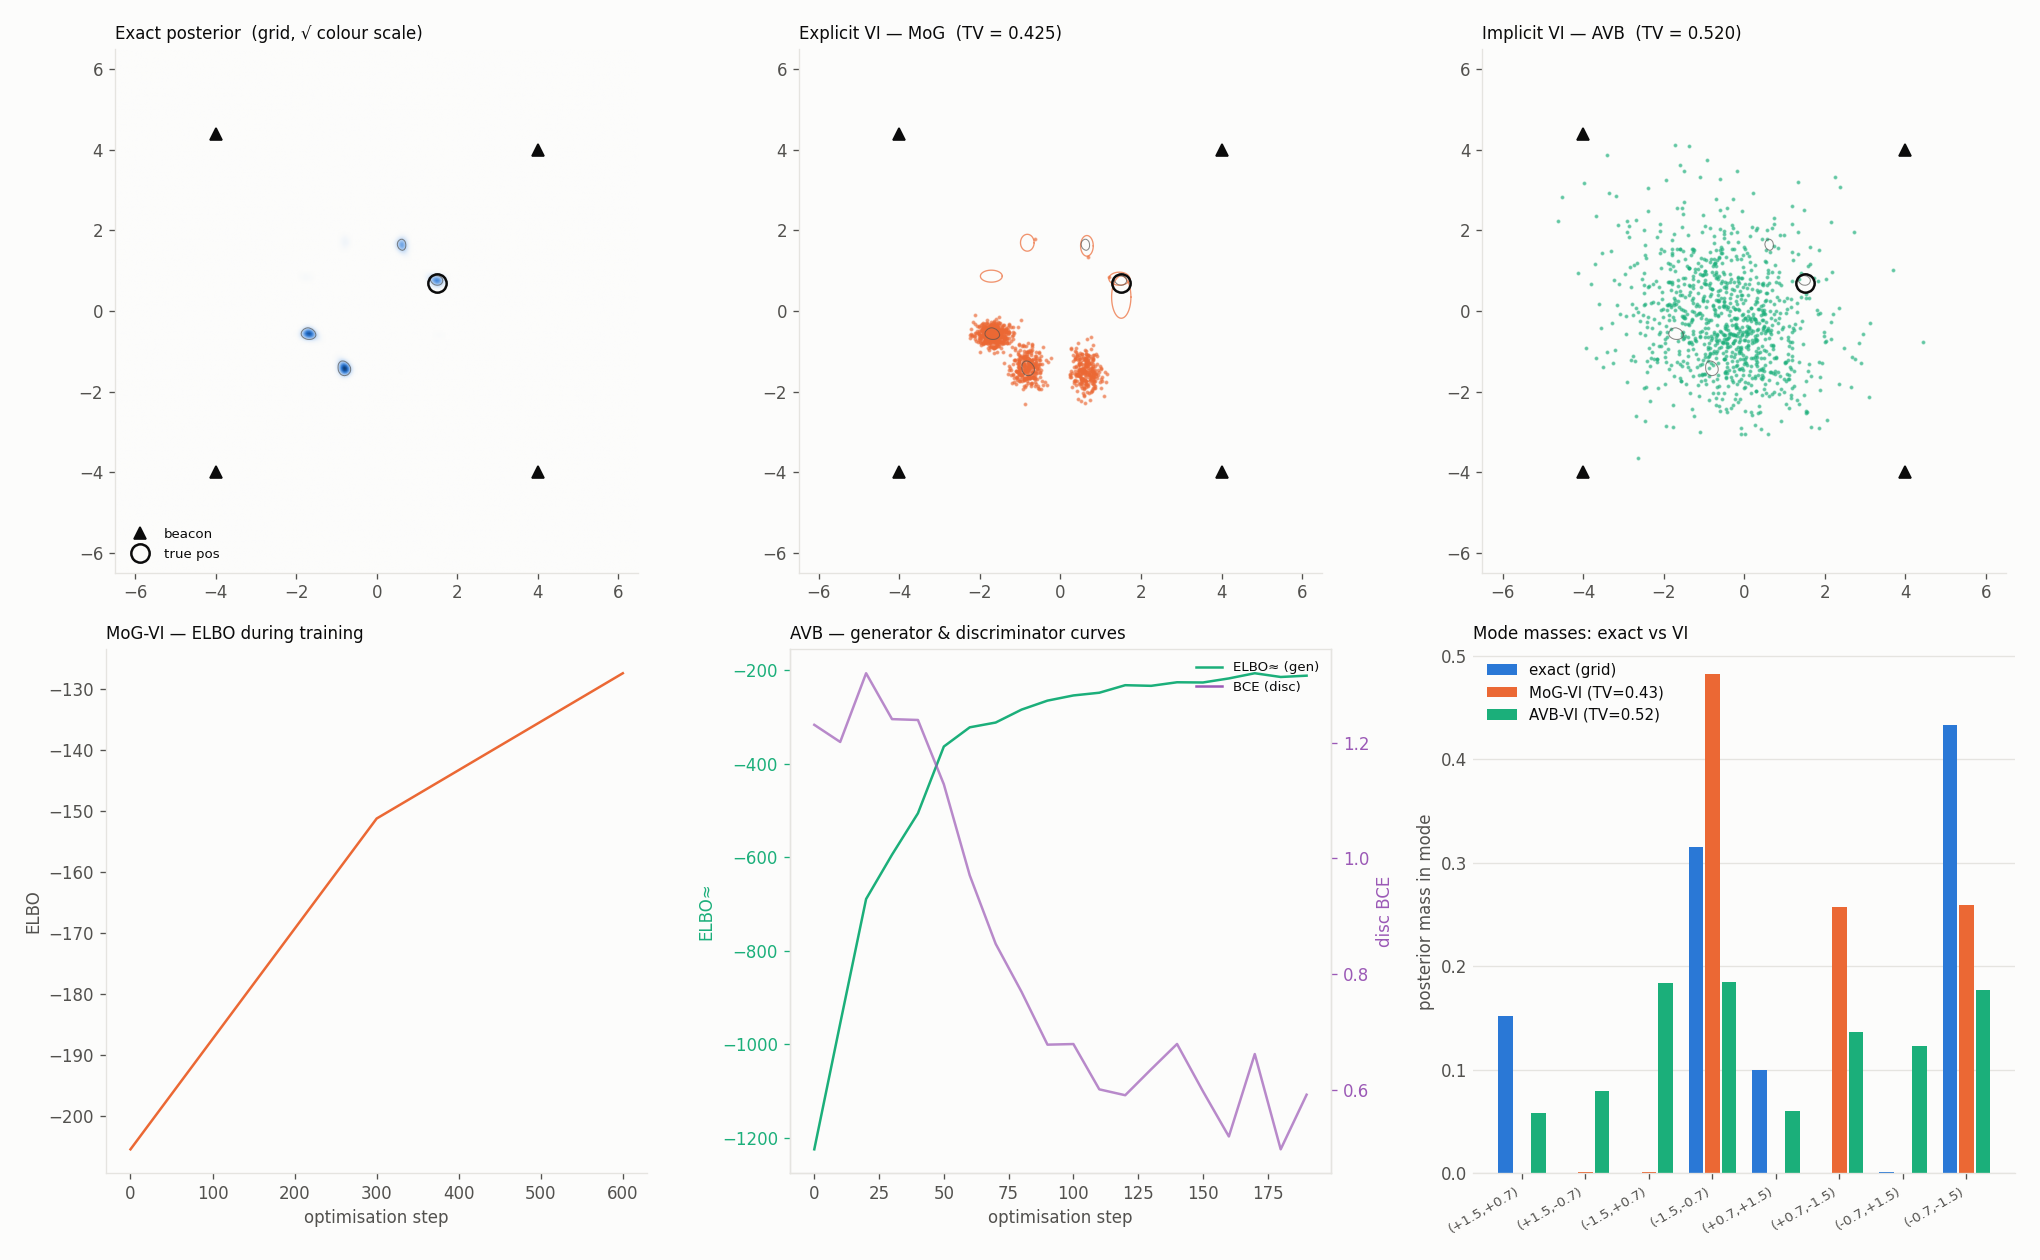
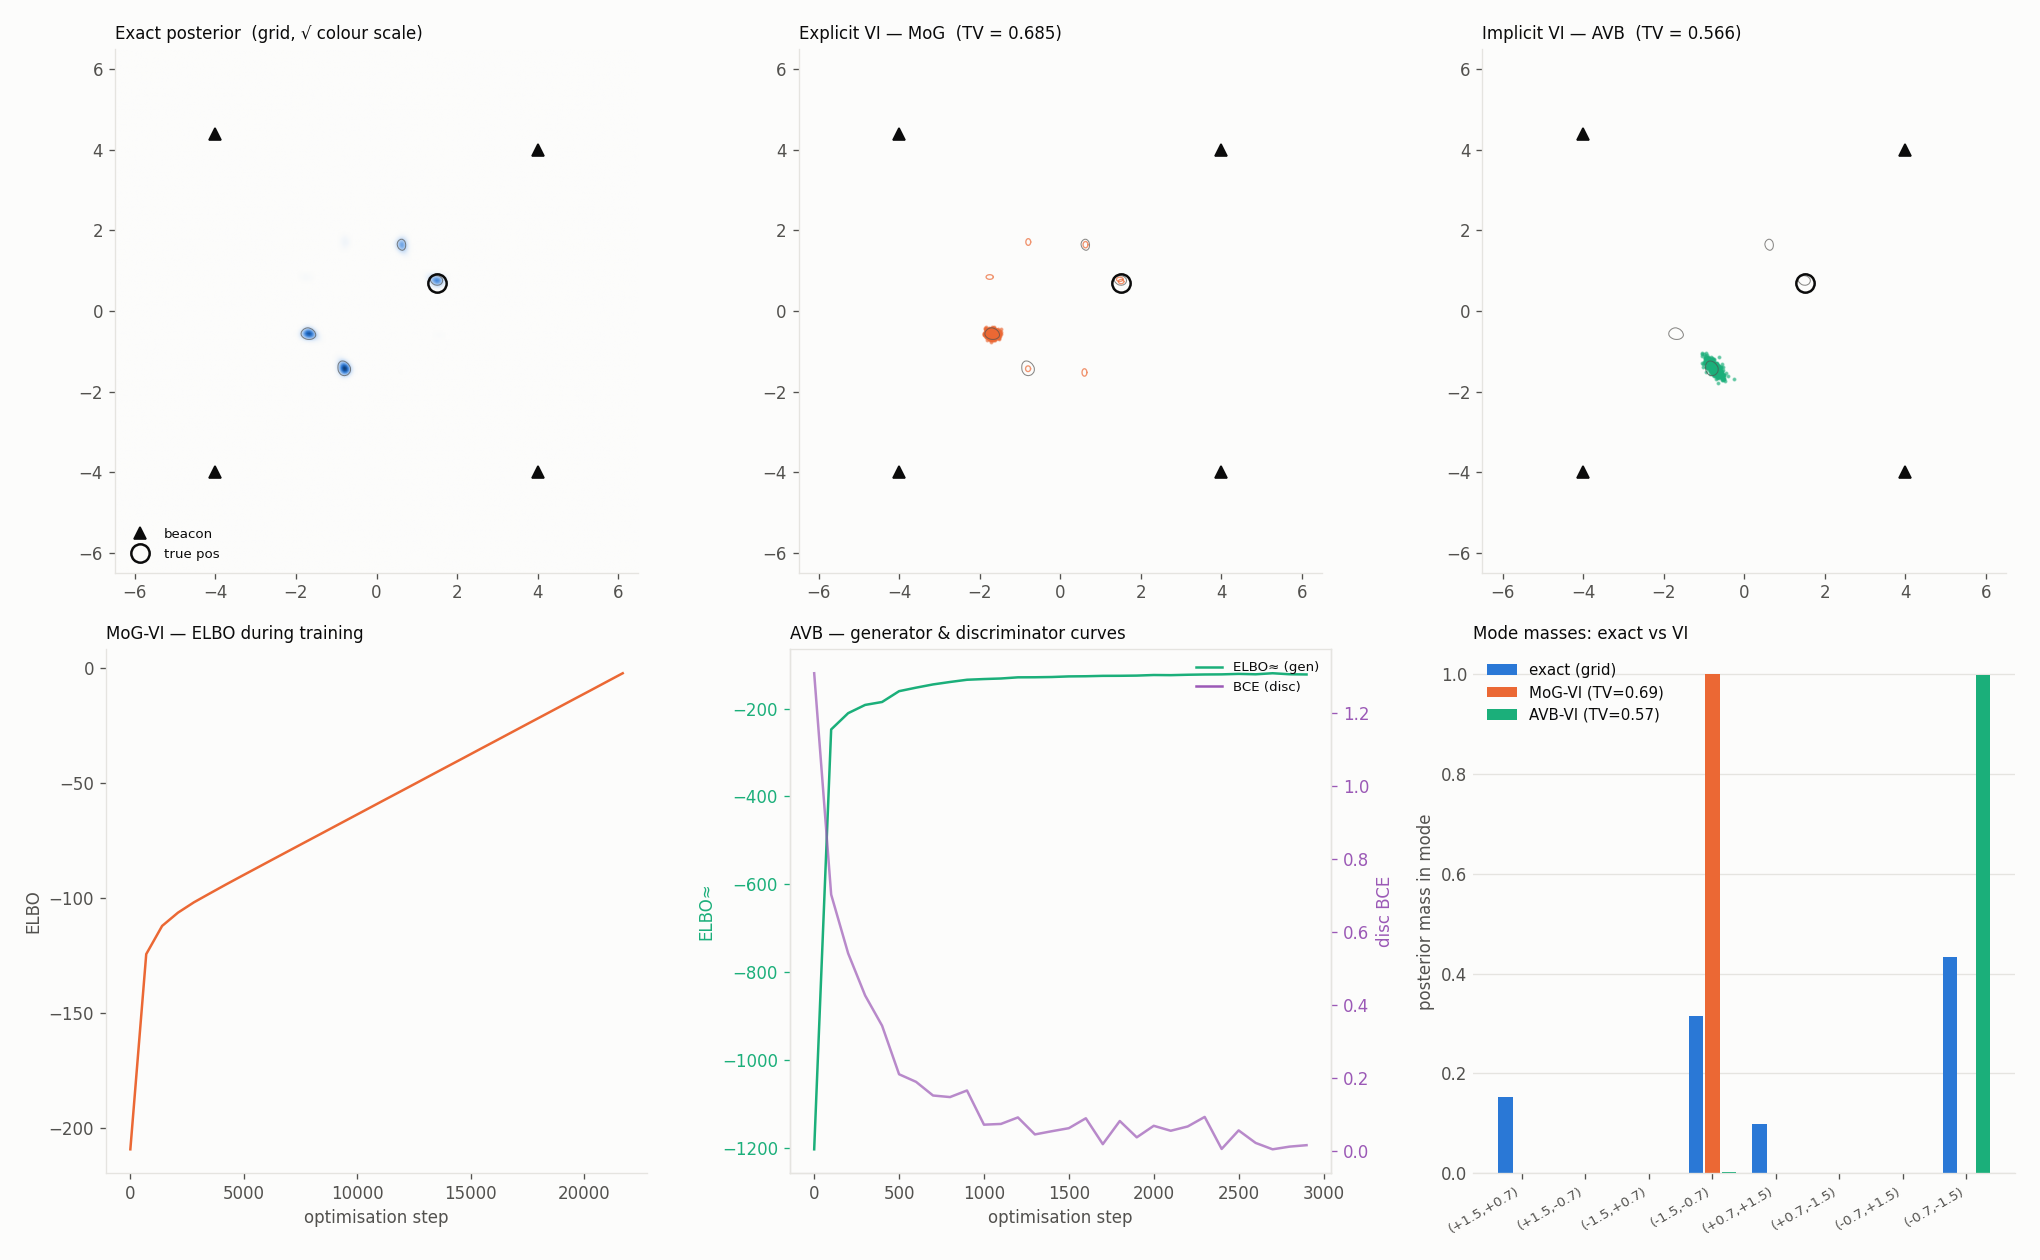
JIT Fixes and retraining

diff --git a/vi_tinygrad.py b/vi_tinygrad.py
@@ -224,19 +224,26 @@ class MoGVI:
             parts.append(eps * sigma_np[k] + mu_np[k])
         return np.clip(np.concatenate(parts, axis=0), -BOX, BOX)
 
-@TinyJit
 def train_mog(readings_tg, n_steps=3000, lr=3e-3, S=64):
     """Train a MoG variational distribution by maximising the ELBO."""
     mog = MoGVI(K=8)
     opt = nn_tg.optim.Adam(mog.parameters(), lr=lr)
     hist = []
+
+    @Context(TRAINING=1)
+    @TinyJit
+    def train_step():
+        opt.zero_grad()
+        elbo = mog.elbo(readings_tg, S=S)
+        (-elbo).backward()
+        opt.step()
+
+        return elbo
+    
     with Context(TRAINING=1):
         for step in range(n_steps):
-            opt.zero_grad()
-            elbo = mog.elbo(readings_tg, S=S)
-            (-elbo).backward()
-            opt.step()
-            if step % 300 == 0:
+            elbo = train_step()
+            if step % 700 == 0:
                 v = float(elbo.numpy())
                 hist.append((step, v))
                 print(f"  [MoG] step {step:4d}  ELBO = {v:+.3f}")
@@ -289,7 +296,6 @@ class Discriminator:
     def parameters(self):
         return self.net.parameters()
 
-@TinyJit
 def train_avb(readings_tg, n_steps=50, lr=1e-3, batch=256, n_disc=5):
     """
     Adversarial Variational Bayes training loop.
@@ -311,6 +317,30 @@ def train_avb(readings_tg, n_steps=50, lr=1e-3, batch=256, n_disc=5):
     gen_hist  = []   # (step, ELBO estimate)
     disc_hist = []   # (step, discriminator BCE loss)
 
+    @TinyJit
+    def disc_step():
+        opt_d.zero_grad()
+        for _ in range(n_disc):
+            x_q = gen.sample(batch).detach()
+            x_p = Tensor.rand(batch, 2) * (2*BOX) - BOX
+            t_q = disc(x_q)
+            t_p = disc(x_p)
+            d_loss = -(t_q.logsigmoid().mean() + (-t_p).logsigmoid().mean())
+            d_loss.backward()
+            opt_d.step()
+        return d_loss
+
+    @TinyJit
+    def gen_step():
+        opt_g.zero_grad()
+        x_q = gen.sample(batch)
+        ll = log_lik_tg(x_q, readings_tg)
+        t_q = disc(x_q)
+        g_loss = -(ll - t_q).mean()
+        g_loss.backward()
+        opt_g.step()
+        return g_loss
+
     with Context(TRAINING=1):
         for step in range(n_steps):
 
@@ -318,36 +348,12 @@ def train_avb(readings_tg, n_steps=50, lr=1e-3, batch=256, n_disc=5):
             # detach generator output: gradients stay in disc parameters only.
             d_loss_val = None
             for _ in range(n_disc):
-                opt_d.zero_grad()
-
-                x_q = gen.sample(batch).detach()           # q-samples (stop gen grad)
-                x_p = Tensor.rand(batch, 2) * (2*BOX) - BOX  # prior samples
-
-                t_q = disc(x_q)   # logit for q-samples  (want > 0)
-                t_p = disc(x_p)   # logit for prior-samples (want < 0)
-
-                # BCE: maximise log σ(T(x_q)) + log σ(-T(x_p))
-                # Equivalently minimise negative:
-                d_loss = -(t_q.logsigmoid().mean() + (-t_p).logsigmoid().mean())
-                d_loss.backward()
-                opt_d.step()
+                d_loss = disc_step()
                 d_loss_val = float(d_loss.numpy())
 
-            # ── Generator update ──────────────────────────────────────────
-            # Maximise ELBO ≈ E_z[ log L(r|G(z)) - T_ψ(G(z)) ]
-            # T_ψ(x) ≈ log q(x)/p(x), so -T_ψ(x) ≈ log p(x)/q(x) ≈ H_contribution
-            opt_g.zero_grad()
+            g_loss = gen_step()
 
-            x_q  = gen.sample(batch)                 # (batch, 2) — with gen grad
-            ll   = log_lik_tg(x_q, readings_tg)      # (batch,)   — log L(r|x)
-            t_q  = disc(x_q)                          # (batch,)   — loĝ q/p
-
-            # ELBO ≈ E[log L(r|x)] - E[log q(x)/p(x)]
-            g_loss = -(ll - t_q).mean()               # negate → minimise
-            g_loss.backward()
-            opt_g.step()
-
-            if step % 10 == 0:
+            if step % 100 == 0:
                 g_val = float(-g_loss.numpy())
                 gen_hist.append((step, g_val))
                 disc_hist.append((step, d_loss_val))
@@ -382,7 +388,7 @@ if __name__ == "__main__":
 
     # ── Explicit VI: MoG ─────────────────────────────────────────────────
     print("\n=== Explicit VI (Mixture of Gaussians) ===")
-    mog, mog_hist = train_mog(readings_tg, n_steps=900, lr=3e-3, S=64)
+    mog, mog_hist = train_mog(readings_tg, n_steps=22000, lr=3e-3, S=64)
     mog_samples   = mog.get_samples(5000)
     m_mog         = masses(mog_samples, centers)
     print(f"\nMoG-VI TV vs exact = {tv(m_mog, exact):.3f}")
@@ -400,7 +406,7 @@ if __name__ == "__main__":
     # ── Implicit VI: AVB ─────────────────────────────────────────────────
     print("\n=== Implicit VI (Adversarial Variational Bayes) ===")
     gen, disc, gen_hist, disc_hist = train_avb(
-        readings_tg, n_steps=200, lr=1e-3, batch=256, n_disc=5
+        readings_tg, n_steps=3000, lr=1e-3, batch=256, n_disc=5
     )
     avb_samples = gen.sample(5000).numpy()
     m_avb       = masses(avb_samples, centers)
